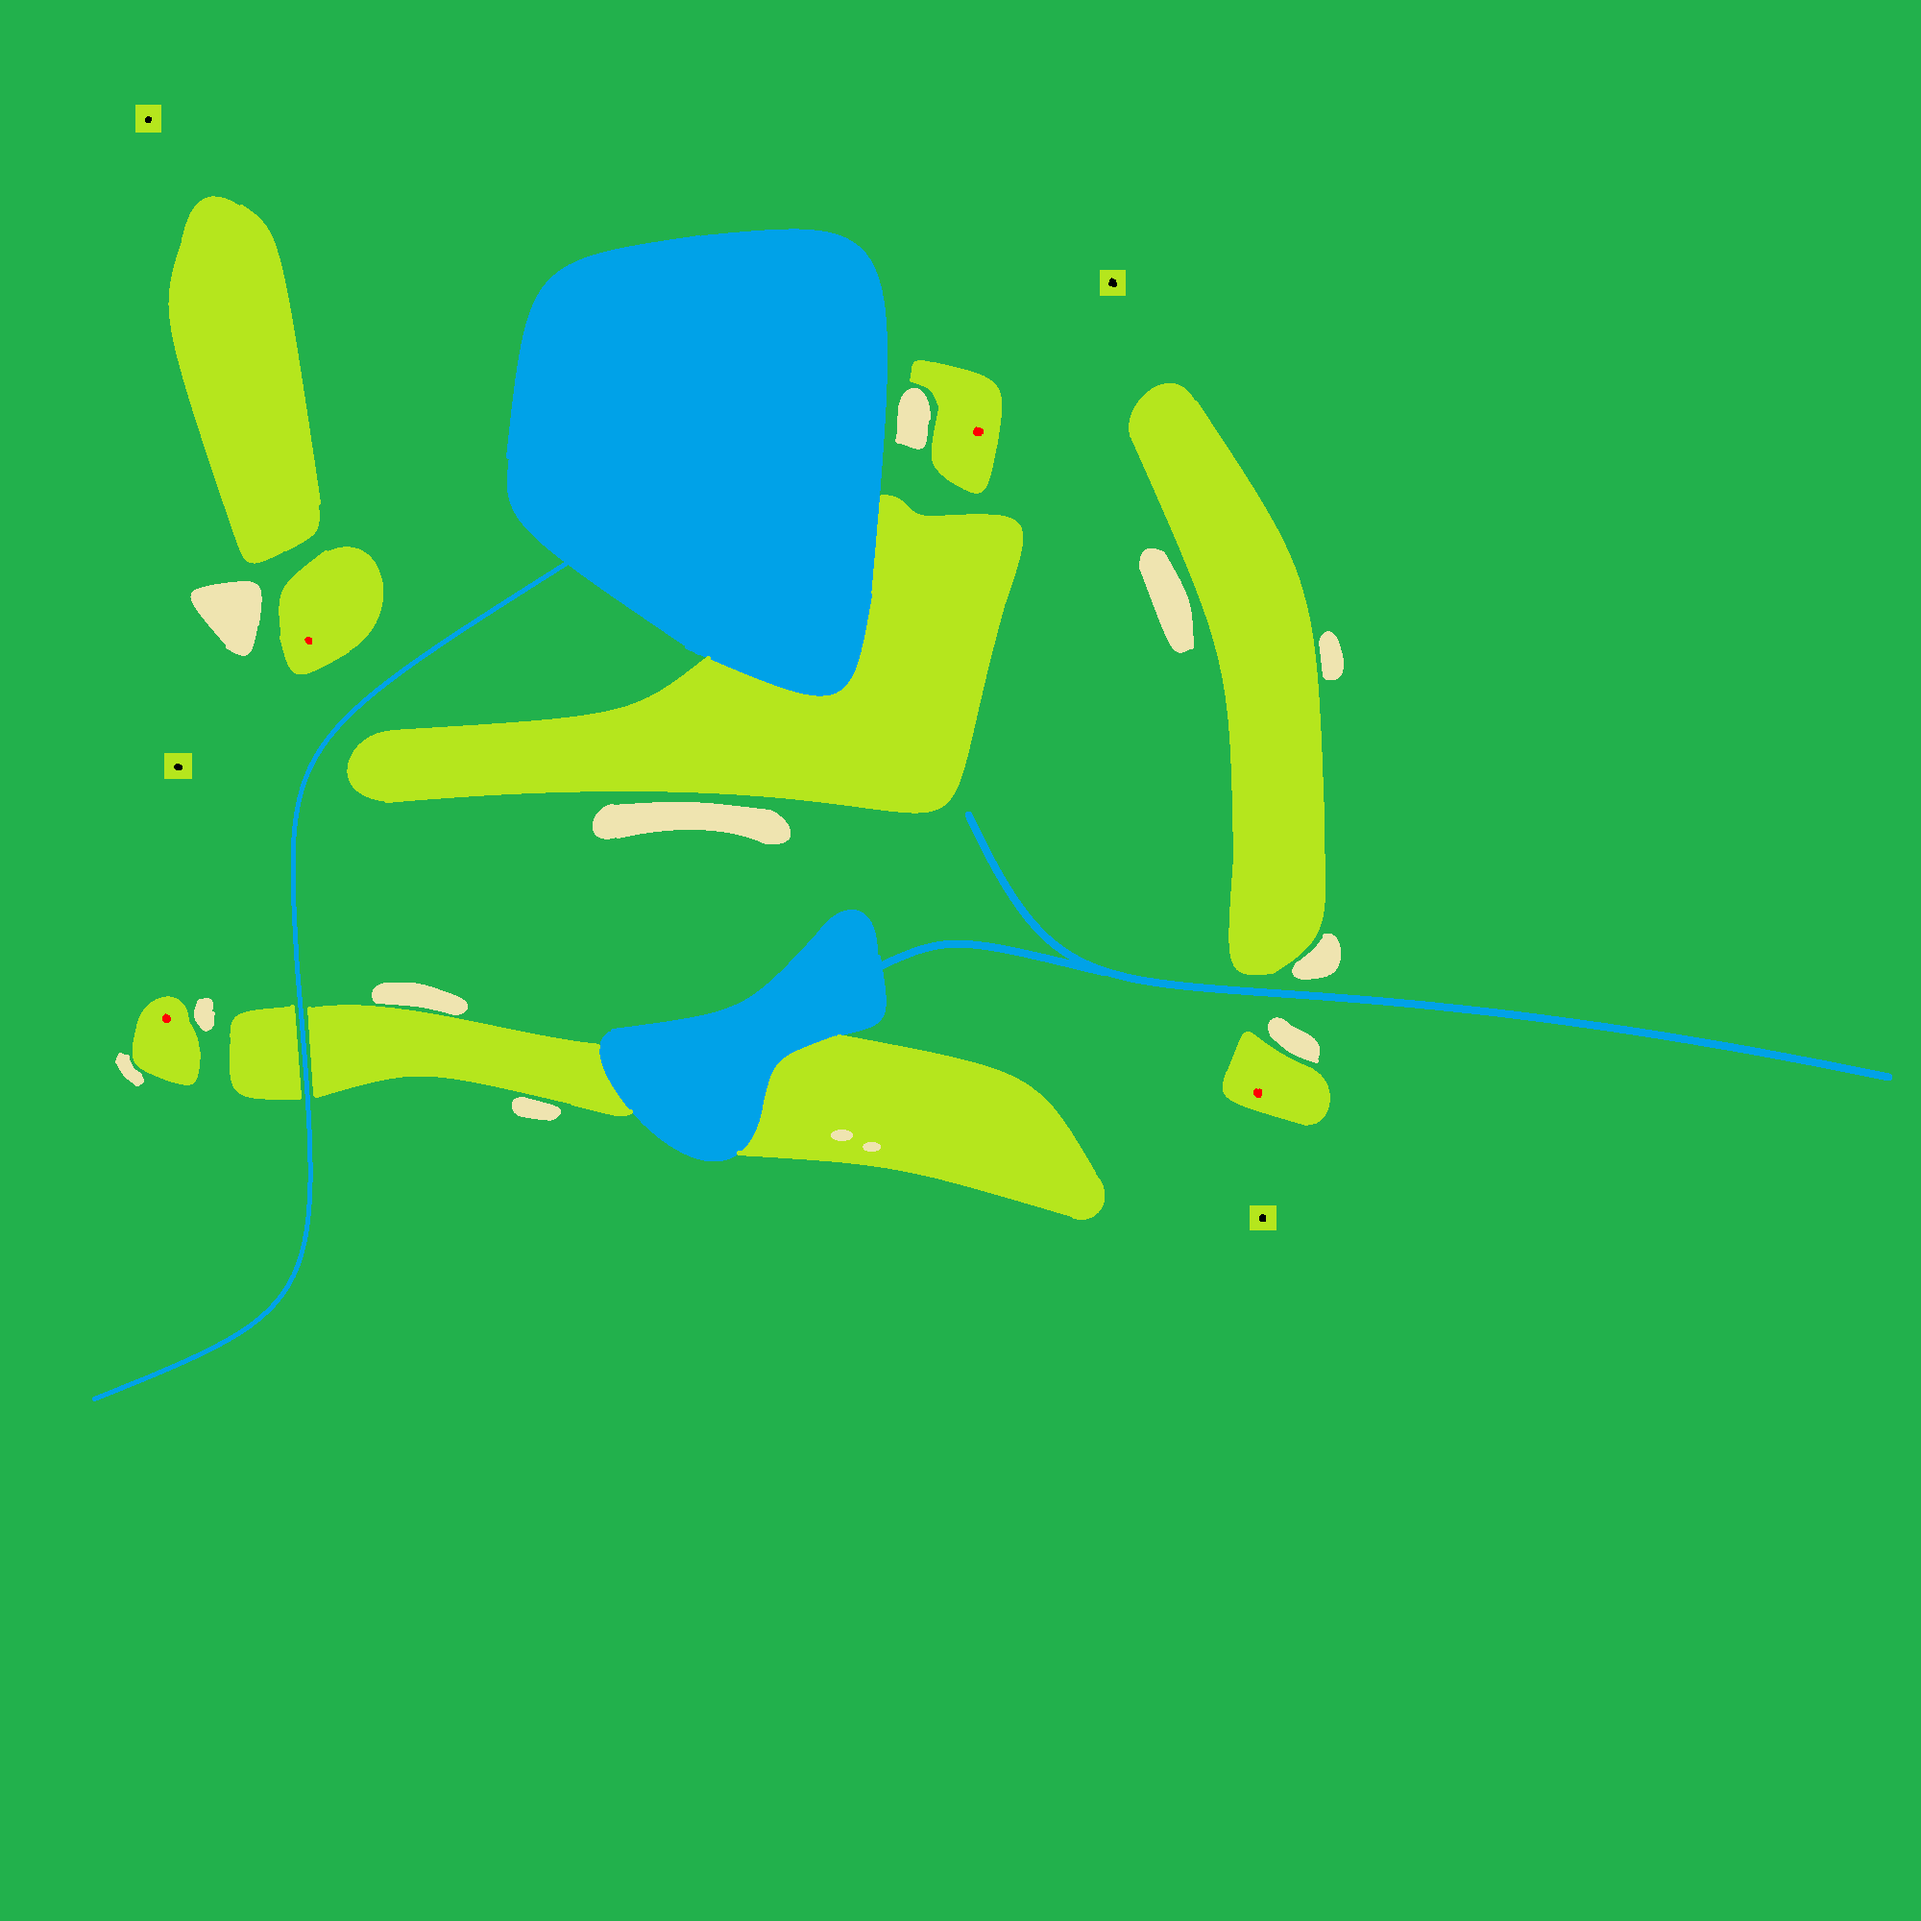
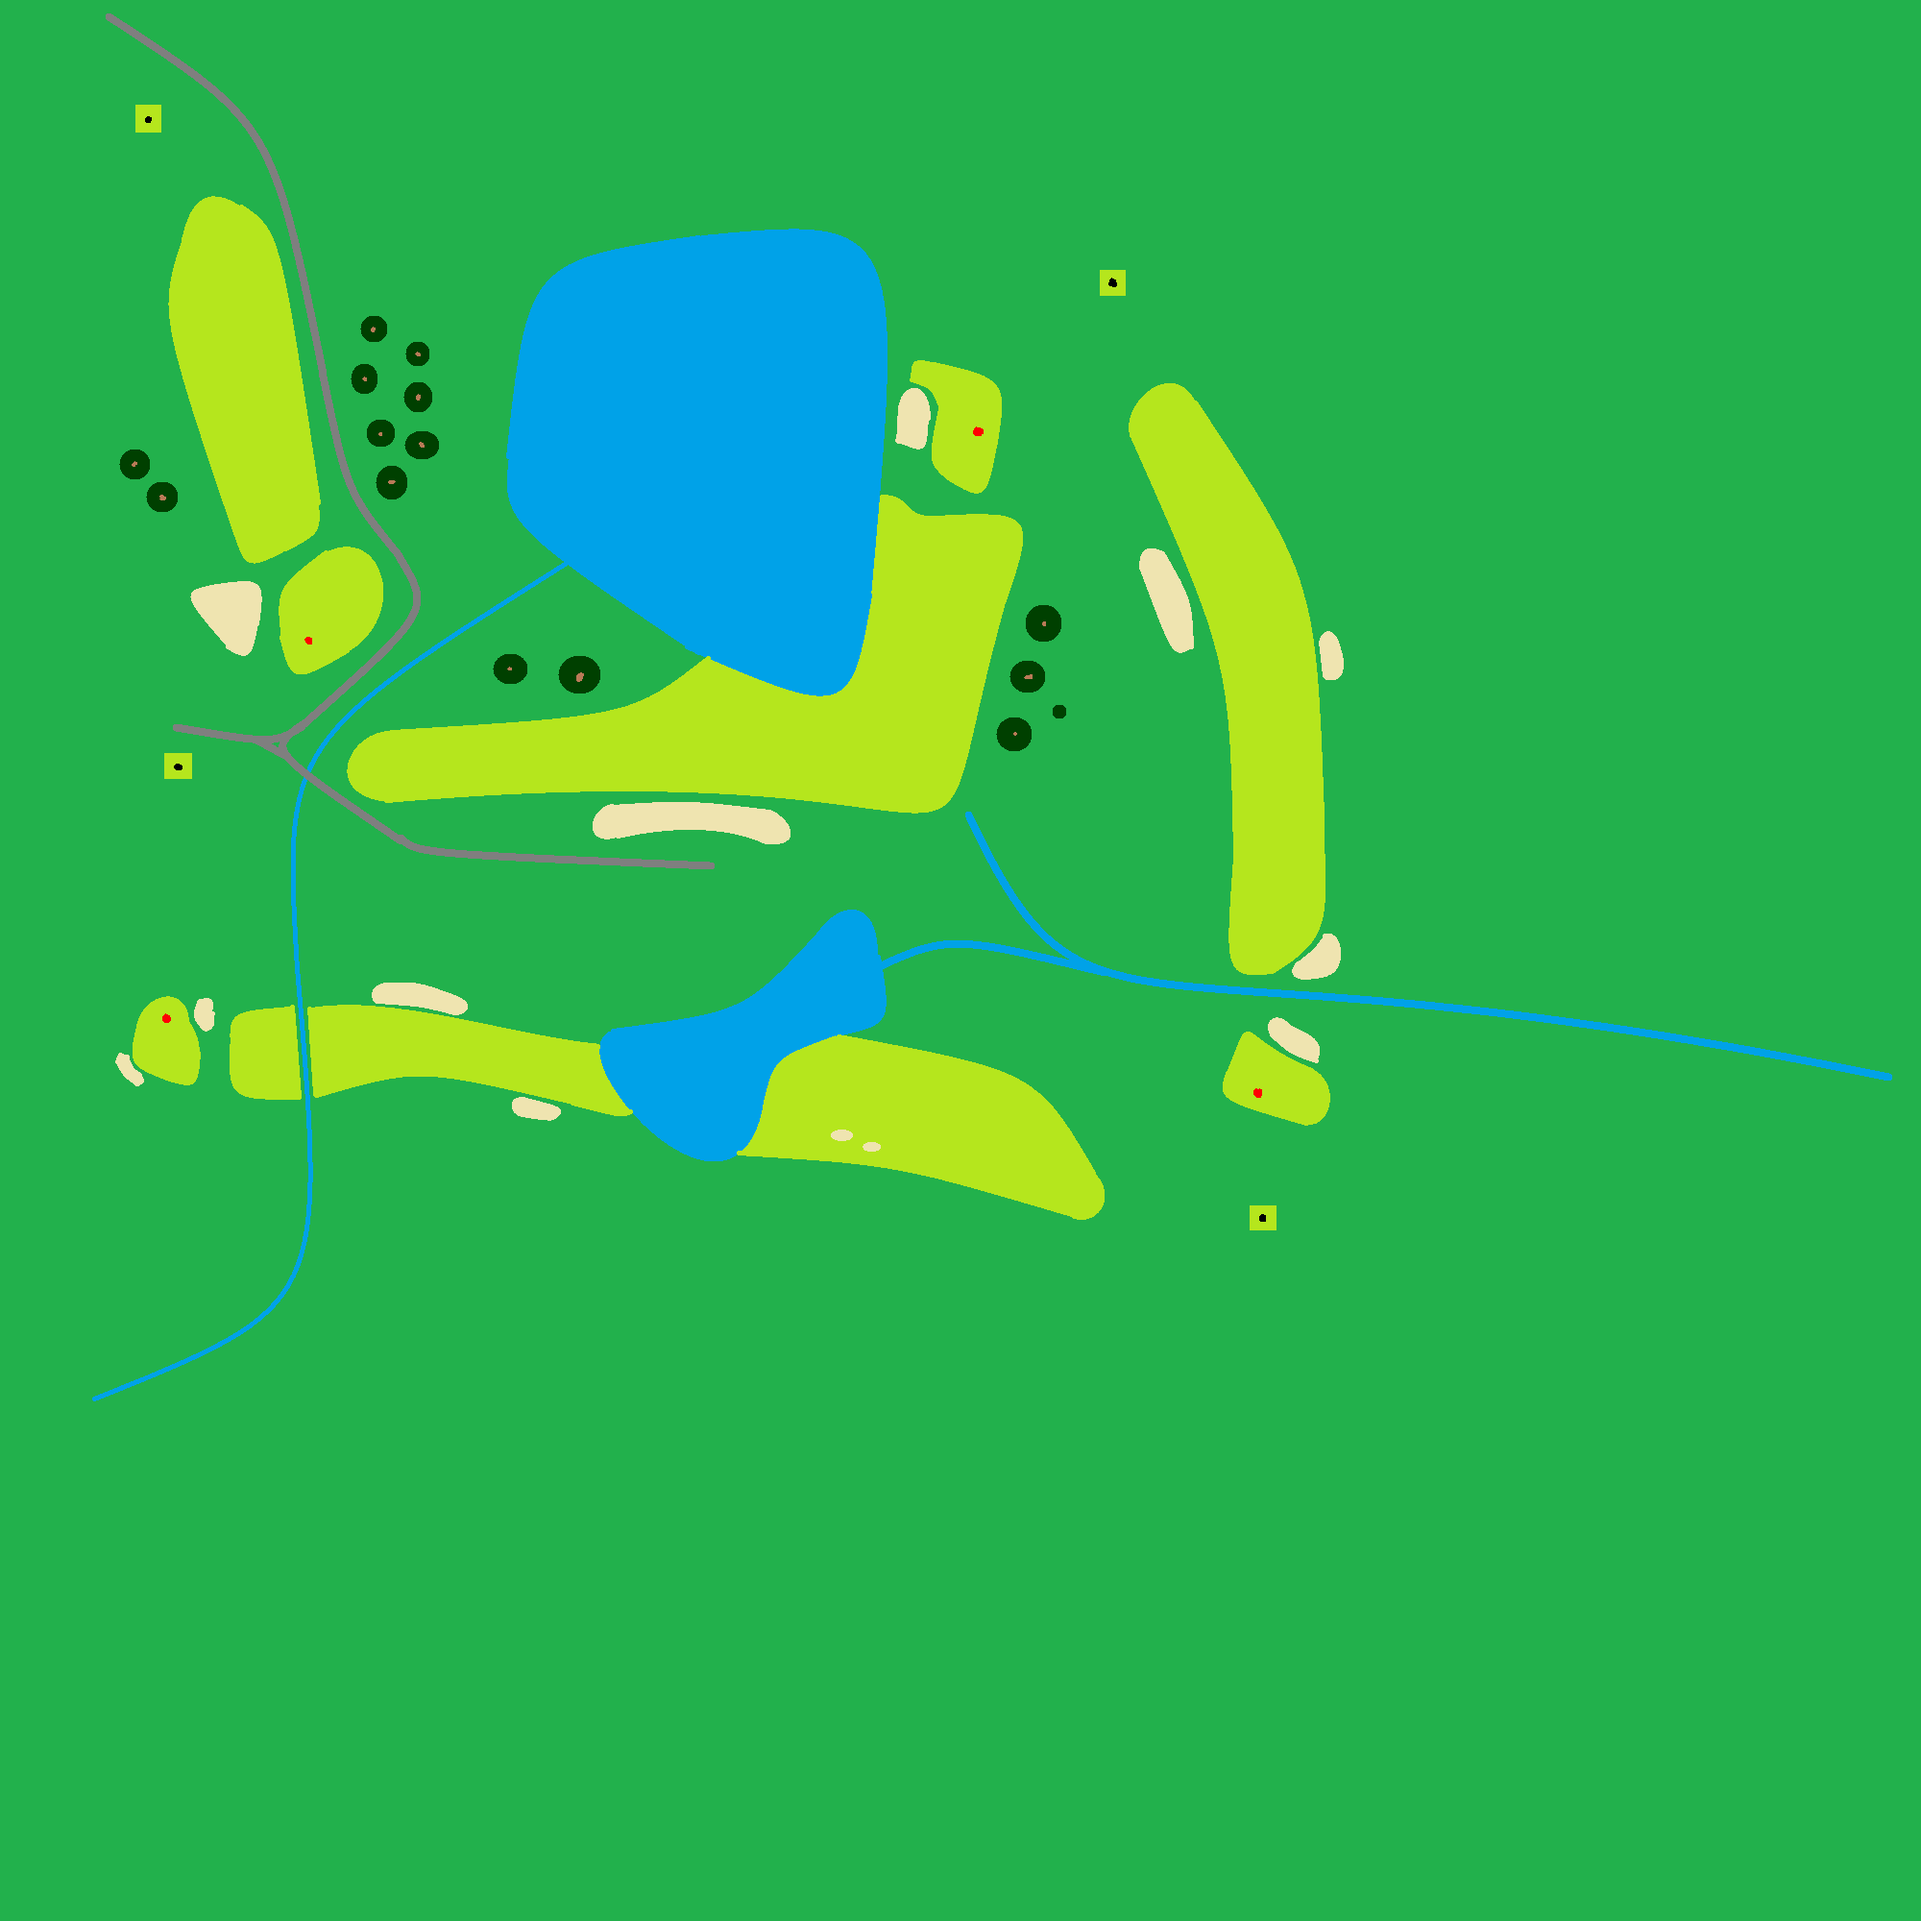
Add trees and paths, among others
* Add trees and paths
* Change inMotion tolerance from 0.05 to 0.125
* Hotfix current yards indicator

diff --git a/src/terrain.js b/src/terrain.js
@@ -12,7 +12,10 @@ export default class Terrain {
       FAIRWAY: 3,
       ROUGH:   4,
       BUNKER:  5,
-      WATER:   6
+      WATER:   6,
+      TREE:    7,
+      LEAF:    8,
+      PATH:    9
     };
     
     this.LIE_RATE = {
@@ -22,7 +25,10 @@ export default class Terrain {
       FAIRWAY: 0.98,
       ROUGH:   0.80,
       BUNKER:  0.60,
-      WATER:   0.15
+      WATER:   0.15,
+      TREE:    0.50,
+      LEAF:    0.80,
+      PATH:    0.60
     };
     
     this.BOUNCE_RATE = {
@@ -32,7 +38,10 @@ export default class Terrain {
       FAIRWAY: 0.98,
       ROUGH:   0.80,
       BUNKER:  0.50,
-      WATER:   0.00
+      WATER:   0.00,
+      TREE:    0.80,
+      LEAF:    0.80,
+      PATH:    2.00
     };
     
     this.FRICTION_RATE = {
@@ -42,7 +51,10 @@ export default class Terrain {
       FAIRWAY: 0.98,
       ROUGH:   0.85,
       BUNKER:  0.75,
-      WATER:   0.00
+      WATER:   0.00,
+      TREE:    1.00,
+      LEAF:    0.85,
+      PATH:    1.00
     };
   }
   
@@ -56,6 +68,12 @@ export default class Terrain {
         return this.TYPE.BUNKER;
       case this.palette.COLOR.WATER:
         return this.TYPE.WATER;
+      case this.palette.COLOR.TREE:
+        return this.TYPE.TREE;
+      case this.palette.COLOR.LEAF:
+        return this.TYPE.LEAF;
+      case this.palette.COLOR.PATH:
+        return this.TYPE.PATH;
       default:
         return this.TYPE.FAIRWAY;
     }
@@ -64,6 +82,8 @@ export default class Terrain {
   getTeeTerrain() { return this.TYPE.TEE; }
   getHoleTerrain() { return this.TYPE.HOLE; }
   getWaterTerrain() { return this.TYPE.WATER; }
+  getTreeTerrain() { return this.TYPE.TREE; }
+  getLeafTerrain() { return this.TYPE.LEAF; }
   
   getLieRate(lie) {
     switch (lie) {
@@ -79,6 +99,12 @@ export default class Terrain {
         return this.LIE_RATE.BUNKER;
       case this.TYPE.WATER:
         return this.LIE_RATE.WATER;
+      case this.TYPE.TREE:
+        return this.LIE_RATE.TREE;
+      case this.TYPE.LEAF:
+        return this.LIE_RATE.LEAF;
+      case this.TYPE.PATH:
+        return this.LIE_RATE.PATH;
       default:
         return this.LIE_RATE.FAIRWAY;
     }
@@ -98,6 +124,12 @@ export default class Terrain {
         return this.BOUNCE_RATE.BUNKER;
       case this.TYPE.WATER:
         return this.BOUNCE_RATE.WATER;
+      case this.TYPE.TREE:
+        return this.BOUNCE_RATE.TREE;
+      case this.TYPE.LEAF:
+        return this.BOUNCE_RATE.LEAF;
+      case this.TYPE.PATH:
+        return this.BOUNCE_RATE.PATH;
       default:
         return this.BOUNCE_RATE.FAIRWAY;
     }
@@ -117,6 +149,12 @@ export default class Terrain {
         return this.FRICTION_RATE.BUNKER;
       case this.TYPE.WATER:
         return this.FRICTION_RATE.WATER;
+      case this.TYPE.TREE:
+        return this.FRICTION_RATE.TREE;
+      case this.TYPE.LEAF:
+        return this.FRICTION_RATE.LEAF;
+      case this.TYPE.PATH:
+        return this.FRICTION_RATE.PATH;
       default:
         return this.FRICTION_RATE.FAIRWAY;
     }

diff --git a/src/ball.js b/src/ball.js
@@ -23,7 +23,7 @@ export default class Ball {
     this.c = 0.5;
     this.rho = 1.2;
     this.A = Math.PI * Math.pow(this.radius, 2);
-	
+    
     this.reset();
   }
 
@@ -45,7 +45,7 @@ export default class Ball {
   setLastPosition() { this.lastPosition = this.getScaledPosition().copy(); }
   
   inAir()    { return this.position.z > 0.05; }
-  inMotion() { return this.velocity.mag() > 0.05; }
+  inMotion() { return this.velocity.mag() > 0.125; }
   isMoving() { return this.inAir() || this.inMotion(); }
 
   strike(horizontal, vertical, dtheta) {
@@ -106,6 +106,8 @@ export default class Ball {
       this.velocity.addTo(this.fnet.multiply(this.deltaTime));
       
       this.calculateOoBBounce();
+      this.calculateTreeBounce();
+      this.calculateLeafPhysics();
       this.calculateGroundBounce();
       this.calculateFriction();
     }
@@ -139,6 +141,21 @@ export default class Ball {
     }
   }
   
+  calculateTreeBounce() {
+    if (this.inTree() && this.game.course.atTreeLevel(this.position.z)) {
+      this.position.subtractFrom(this.velocity.multiply(0.0625));
+      //TODO placeholder physics
+      this.velocity.x *= this.game.course.getTreeBounce();
+      this.velocity.y *= this.game.course.getTreeBounce();
+    }
+  }
+  
+  calculateLeafPhysics() {
+    if (this.inLeaf() && this.game.course.atLeafLevel(this.position.z)) {
+      this.velocity.multiplyBy(this.game.course.getLeafRate());
+    }
+  }
+  
   calculateGroundBounce() {
     if (this.position.z < 0) {
       this.position.z = 0;
@@ -164,6 +181,8 @@ export default class Ball {
   
   inHole() { return this.getPixelType() == this.game.course.terrain.getHoleTerrain(); }
   inWater() { return this.getPixelType() == this.game.course.terrain.getWaterTerrain(); }
+  inTree() { return this.getPixelType() == this.game.course.terrain.getTreeTerrain(); }
+  inLeaf() { return this.getPixelType() == this.game.course.terrain.getLeafTerrain(); }
   
   getScaledPosition() { return this.position.multiply(this.scale) };
   

diff --git a/src/palette.js b/src/palette.js
@@ -3,23 +3,29 @@ export default class Palette {
     this.game = game;
     
     this.COLOR = {
-      TEE: 0x000001,
-      HOLE: 0xed1c24,
-      GREEN: 0xb5e61d,
+      TEE:     0x000001,
+      HOLE:    0xed1c24,
+      GREEN:   0xb5e61d,
       FAIRWAY: 0xb5e61d,
-      ROUGH: 0x22b14c,
-      BUNKER: 0xefe4b0,
-      WATER: 0x00a2e8
+      ROUGH:   0x22b14c,
+      BUNKER:  0xefe4b0,
+      WATER:   0x00a2e8,
+      TREE:    0xb97a57,
+      LEAF:    0x004000,
+      PATH:    0x7f7f7f
     };
     
     this.HEX_COLOR = {
-      TEE: this.toHexString(this.COLOR.TEE),
-      HOLE: this.toHexString(this.COLOR.HOLE),
-      GREEN: this.toHexString(this.COLOR.GREEN),
+      TEE:     this.toHexString(this.COLOR.TEE),
+      HOLE:    this.toHexString(this.COLOR.HOLE),
+      GREEN:   this.toHexString(this.COLOR.GREEN),
       FAIRWAY: this.toHexString(this.COLOR.FAIRWAY),
-      ROUGH: this.toHexString(this.COLOR.ROUGH),
-      BUNKER: this.toHexString(this.COLOR.BUNKER),
-      WATER: this.toHexString(this.COLOR.WATER)
+      ROUGH:   this.toHexString(this.COLOR.ROUGH),
+      BUNKER:  this.toHexString(this.COLOR.BUNKER),
+      WATER:   this.toHexString(this.COLOR.WATER),
+      TREE:    this.toHexString(this.COLOR.TREE),
+      LEAF:    this.toHexString(this.COLOR.LEAF),
+      PATH:    this.toHexString(this.COLOR.PATH)
     };
   }
   
@@ -44,6 +50,12 @@ export default class Palette {
         return this.HEX_COLOR.BUNKER;
       case this.game.course.terrain.TYPE.WATER:
         return this.HEX_COLOR.WATER;
+      case this.game.course.terrain.TYPE.TREE:
+        return this.HEX_COLOR.TREE;
+      case this.game.course.terrain.TYPE.LEAF:
+        return this.HEX_COLOR.LEAF;
+      case this.game.course.terrain.TYPE.PATH:
+        return this.HEX_COLOR.PATH;
       default:
         return "#ff00ff";
     }

diff --git a/src/course.js b/src/course.js
@@ -12,6 +12,11 @@ export default class Course {
     this.tees = this.createCourseCoordinateList();
     this.holes = this.createCourseCoordinateList();
     this.map = [0];
+    
+    this.leafRate = 0.98;
+    this.treeBounce = -0.25;
+    this.leafMinHeight = 4;
+    this.treeMaxHeight = 25;
   }
   
   draw(ctx) {
@@ -44,9 +49,16 @@ export default class Course {
   getDistance(n) { 
     return this.holes[n].distance2D(this.tees[n]) / this.game.ball.scale;
   }
+  
+  getTreeBounce() { return this.treeBounce; }
+  getLeafRate() { return this.leafRate; }
+  atTreeLevel(n) { return n < this.treeMaxHeight; }
+  atLeafLevel(n) { return n > this.leafMinHeight && n < this.treeMaxHeight; }
+  
   getPixelType(x, y) {
     return this.map[Math.floor(x)][Math.floor(y)];
   }
+  
   getLieRate(x, y) { return this.terrain.getLieRate(this.getPixelType(x, y)); }
   getBounceRate(x, y) { return this.terrain.getBounceRate(this.getPixelType(x, y)); }
   getFrictionRate(x, y) { return this.terrain.getFrictionRate(this.getPixelType(x, y)); }

diff --git a/src/currentYards.js b/src/currentYards.js
@@ -17,6 +17,6 @@ export default class CurrentYards {
   }
   
   update(deltaTime) {
-    this.currentYards = this.game.ball.position.distance2D(this.game.ball.lastPosition);
+    this.currentYards = this.game.ball.position.distance2D(this.game.ball.lastPosition.divide(this.game.ball.scale));
   }
 }

diff --git a/TODO.md b/TODO.md
@@ -2,8 +2,9 @@
 
 ## Changes
 
-* Seperate lieRate from bounce and friction rate
-
+* Add trees and paths
+* Change inMotion tolerance from 0.05 to 0.125
+* Hotfix current yards indicator
 
 ## Logic
 
@@ -13,17 +14,17 @@
 
 ## Physics
 
-* Investigate partial-power shots
+* Overhaul physics
 * Fix spin
-* Add trees
-    * Leaves vs. trunk
 * Add variation in lie rate
 
 
 ## Features
 
+* Add pause after running state end
 * Add pause menu
 * Implement greens
+* Allow for any size vanity images
 * Add support for user-uploaded vanity images
 * Add palette customization to main menu
 * Add bag customization
